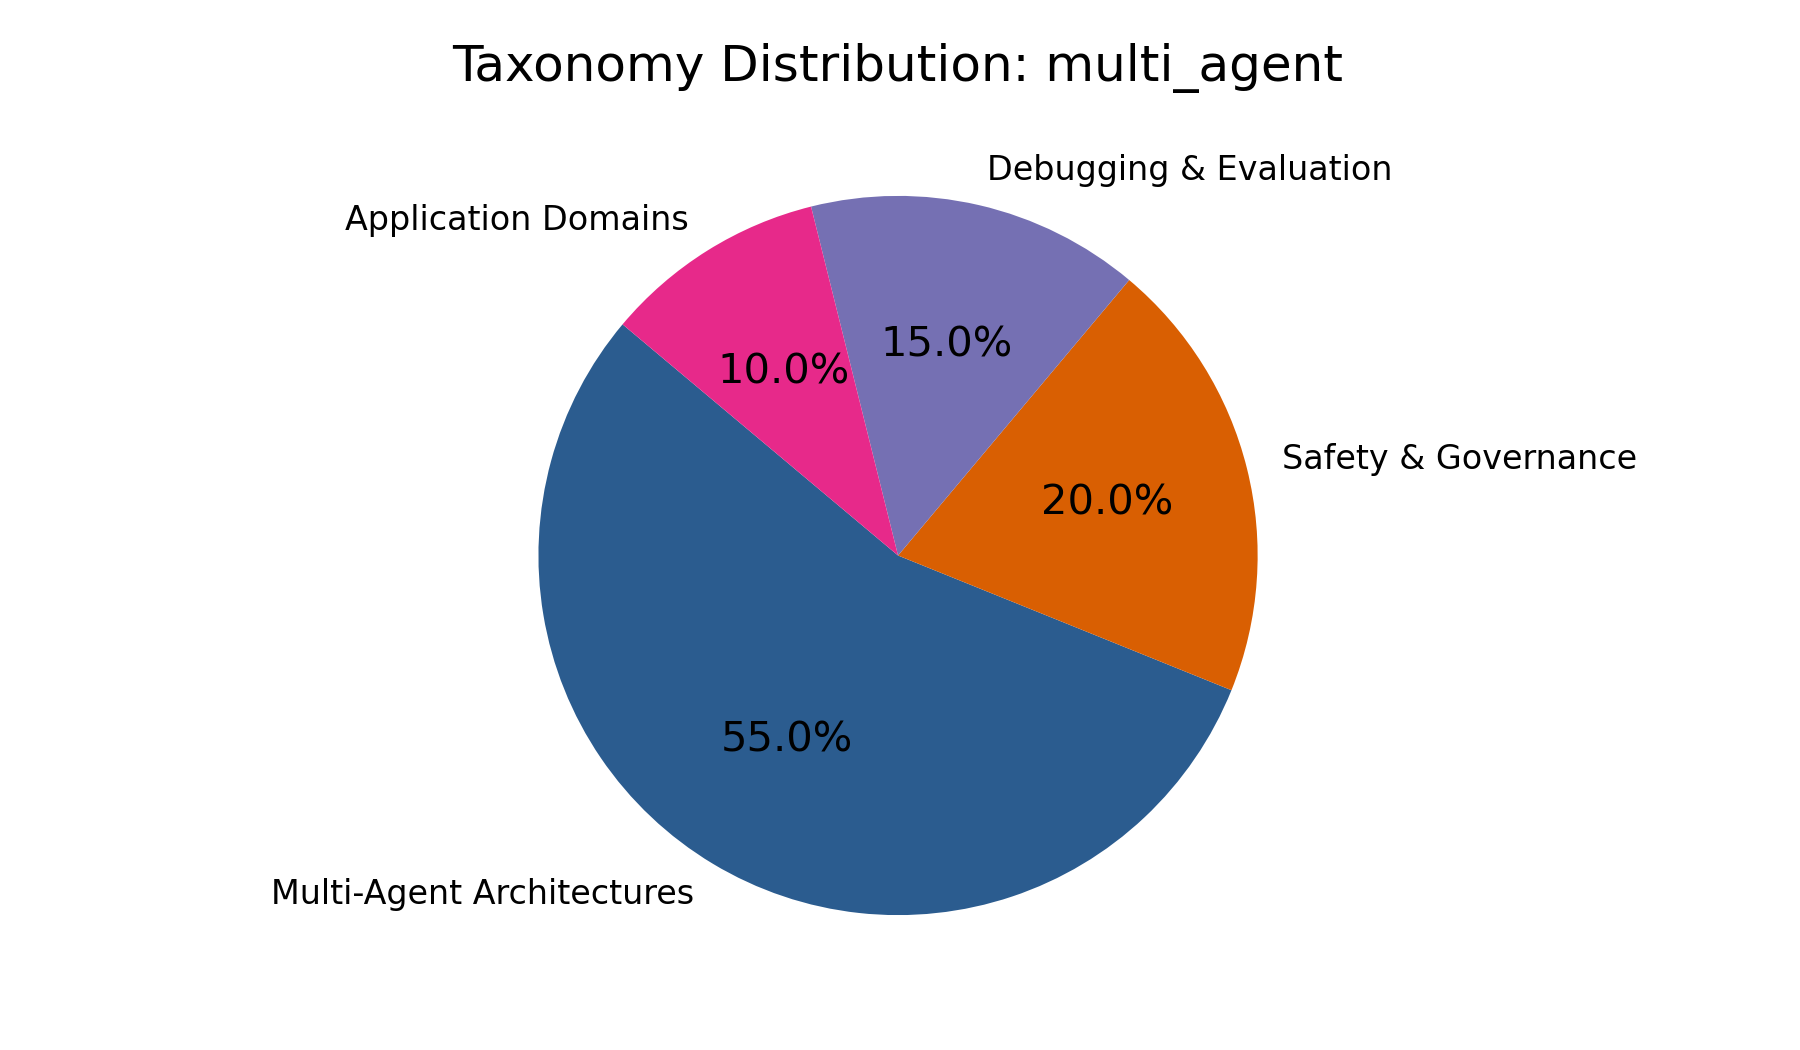
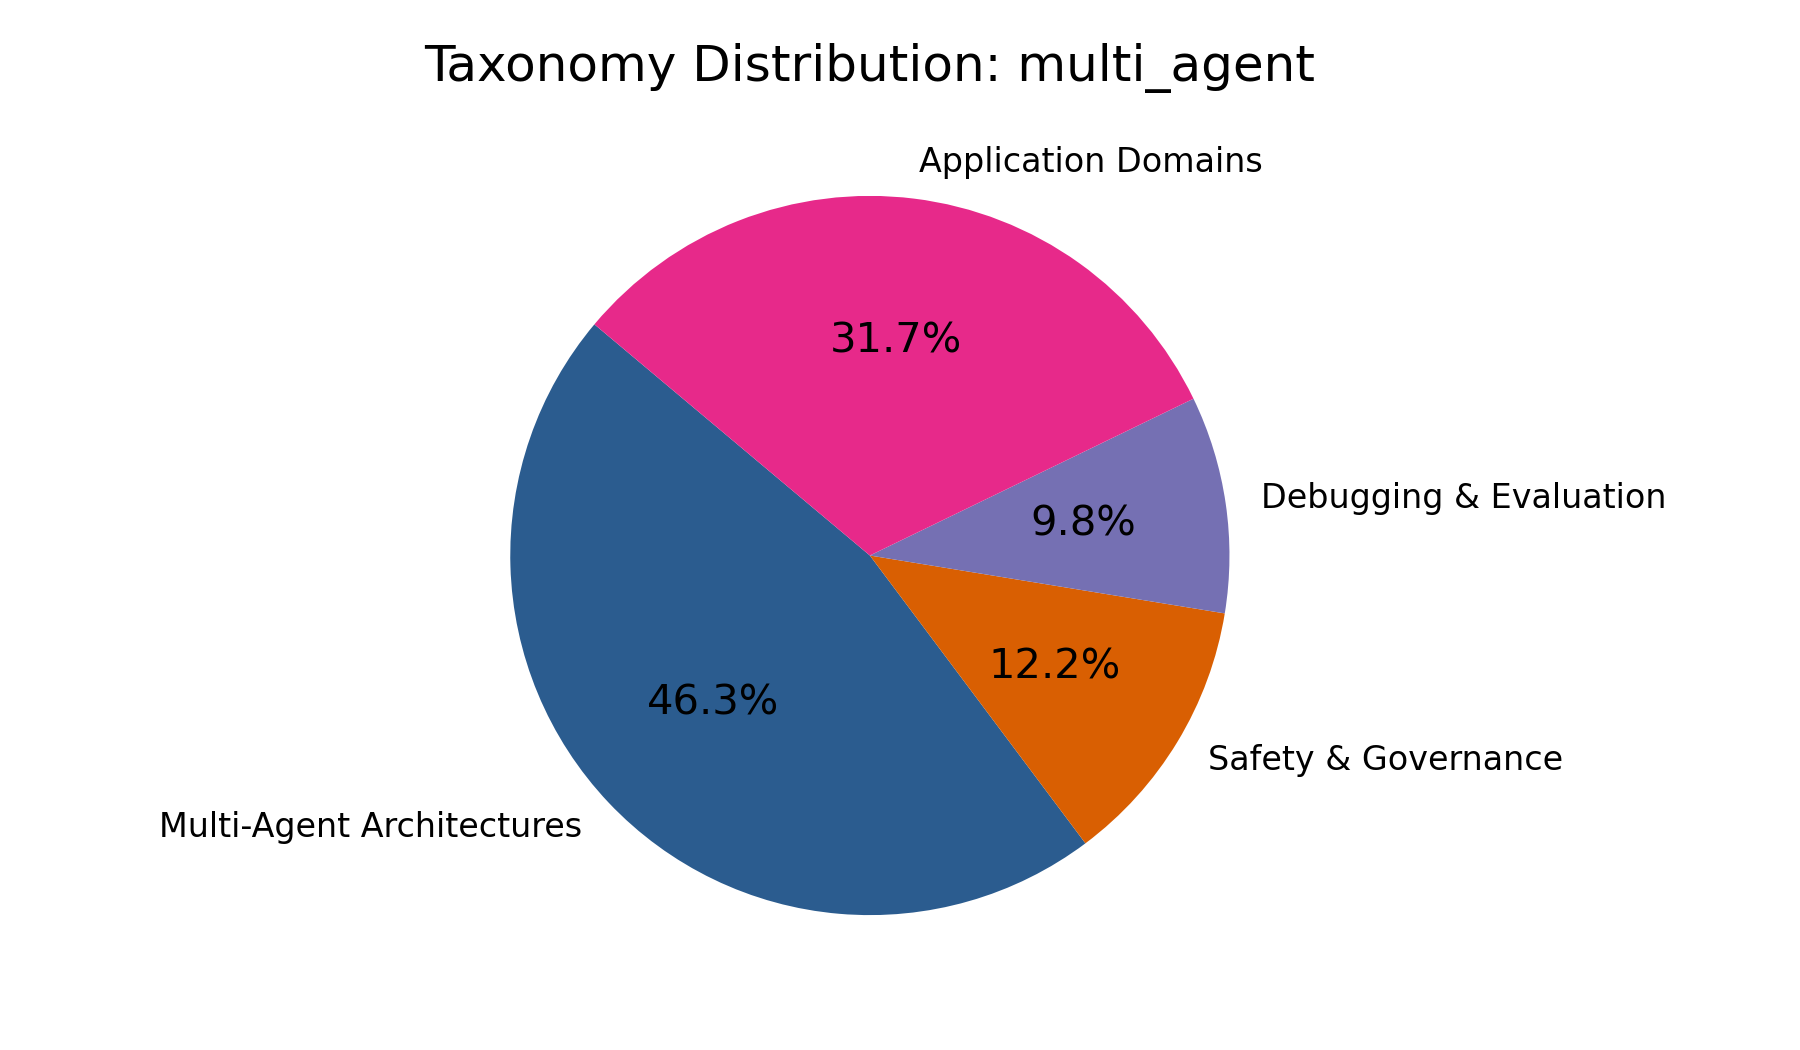
feat(multi_agent): integrated valid papers (LSS: 87.94)

diff --git a/surveys/multi_agent/generate_figures.py b/surveys/multi_agent/generate_figures.py
@@ -11,8 +11,8 @@ plt.rcParams.update({'font.size': 10, 'axes.labelsize': 11, 'axes.titlesize': 12
 
 SURVEY_TITLE = "multi_agent"
 # [AI AGENT ZONE] Edit only these dictionaries
-TIMELINE_DATA = {"2009": 1, "2014": 1, "2023": 1, "2024": 2, "2025": 8, "2026": 7}
-TAXONOMY_DATA = {"Multi-Agent Architectures": 11, "Safety & Governance": 4, "Debugging & Evaluation": 3, "Application Domains": 2}
+TIMELINE_DATA = {"2001": 2, "2002": 2, "2003": 8, "2004": 4, "2005": 1, "2006": 2, "2007": 2, "2009": 1, "2014": 1, "2023": 1, "2024": 2, "2025": 8, "2026": 7}
+TAXONOMY_DATA = {"Multi-Agent Architectures": 19, "Safety & Governance": 5, "Debugging & Evaluation": 4, "Application Domains": 13}
 
 def plot_publication_timeline():
     years, counts = list(TIMELINE_DATA.keys()), list(TIMELINE_DATA.values())

diff --git a/surveys/multi_agent/multi_agent.md b/surveys/multi_agent/multi_agent.md
@@ -16,6 +16,8 @@ Furthermore, multi-agent LLM architectures are proving effective for automated f
 
 Distributed planning approaches continue to evolve, with new dynamic models enabling agents to autonomously regenerate plans based on environmental changes and constraint satisfaction via genetic algorithms [^10.48550_arxiv.2403.00805]. In reinforcement learning contexts, coordinating multi-agent cooperation remains a focal point; models like DQN–MADDPG are being adapted to handle complex, shared environments and emergency scenarios more effectively than traditional baselines [^10.54097_hset.v39i.6720]. Furthermore, the evolution of communication protocols is critical; research into emergent communication demonstrates that combining direct and indirect communication methods in agent groups significantly enhances collective fitness and emergence compared to isolated or single-mode communication strategies [^https:__openalex.org_W567786164].
 
+Historical and foundational studies continue to inform modern MAS design. Early work on communication protocols established the necessity of robust inter-agent messaging, such as the RPC-based communication model which formalized agent functions and implementation steps for distributed systems [^https:__openalex.org_W2382811347]. Structural organization remains critical; research on macro-and-micro architectures for soccer game systems demonstrated how hybrid agent designs (deliberative, hybrid, reactive) can simplify structures while enhancing inference capabilities and real-time flexibility [^https:__openalex.org_W2347833166]. Coordination mechanisms have also been deeply explored, with studies defining sixteen distinct cooperation structures and designing corresponding communication primitives to facilitate multi-agent collaboration [^https:__openalex.org_W2350024539]. Furthermore, the emergence of social conventions as a coordination mechanism has been analyzed, outlining how cognitive capabilities influence the evolution of these conventions in dynamic environments [^https:__openalex.org_W2371517477]. Configuration and allocation of agents in heterogeneous distributed systems have been addressed through dynamic effective configuration algorithms that enable real-time host discovery and automatic agent launching [^https:__openalex.org_W2370879375]. In multi-robot contexts, hierarchical hybrid coordination architectures integrating planning and reactive control have proven effective for complex task execution in uncertain environments [^https:__openalex.org_W2372463173], while studies on soccer robot systems highlight the importance of combining centralized vision-based control with semi-autonomous agent reasoning [^https:__openalex.org_W2376921535]. Rule-based approaches also remain prominent, as seen in distributed-rule agile production scheduling frameworks that utilize hierarchical agent populations (Resource, Part, and Management Agents) to optimize manufacturing workflows [^https:__openalex.org_W2379856474].
+
 ## Safety, Trust, and Governance in Multi-Agent Systems
 
 As multi-agent systems become more autonomous and interconnected, ensuring their safety, trustworthiness, and proper governance has emerged as a critical research area. The concept of an Internet of Agents (IoA) introduces systemic safety risks that require co-designing safety with capability. Research in this domain provides a principled guide for engineering safe agentic systems by analyzing vulnerabilities at the single-agent, multi-agent, and interoperable ecosystem levels [^10.48550_arxiv.2512.00520].
@@ -26,6 +28,8 @@ On the governance front, formal specifications like the Agent Trust Fabric (ATF)
 
 Trust and reputation mechanisms are foundational for secure MAS interactions. The DISARM model addresses this by treating MASs as social networks and employing defeasible logic to draw reasonable conclusions from incomplete or conflicting information, offering a personalized, distributed reputation estimation without relying on centralized authorities [^10.48550_arxiv.1410.3334].
 
+Beyond modern governance layers, foundational security mechanisms for MAS have long focused on behavioral evaluation and intrusion detection. Distributed security systems have been developed to identify undesirable agents or intruders by autonomously evaluating peer behaviors and aggregating historical evaluation results to make distributed trust decisions [^10.4114_ia.v9i28.869].
+
 ## Debugging, Evaluation, and Error Attribution
 
 The complexity of multi-agent interactions makes debugging and error attribution particularly challenging. Traditional evaluation methods often struggle with complex reasoning errors and interdependencies. The ECHO algorithm addresses this by combining hierarchical context representation, objective analysis, and consensus voting to accurately pinpoint agent and step-level failures in interaction traces [^10.48550_arxiv.2510.04886].
@@ -34,8 +38,12 @@ In systems engineering, multi-agent frameworks are also being deployed for root-
 
 Evaluating agent contributions and influence is crucial for understanding complex workflows. The CAIR framework introduces a counterfactual-based influence ranker that assesses the impact of individual agents within agentic AI workflows, providing deeper insights into system dynamics and failure modes [^10.18653_v1_2025.emnlp-main.958].
 
+Distributed diagnostic capabilities are another cornerstone of robust MAS. Expert systems leveraging multi-agent architectures have been designed for distributed fault diagnosis, enabling autonomous subsystems to share new knowledge and collaboratively resolve boundary fault locations through interaction and consensus algorithms [^https:__openalex.org_W2353116861].
+
 ## Application Domains
 
 Multi-agent systems are increasingly being adapted to solve domain-specific challenges that require distributed processing and specialized agent roles. In academic administration, automated categorization and multi-agent processing pipelines have been implemented to streamline assignment grading in computer science and statistics departments. By clustering similar responses and generating precise feedback, these systems reduce educator workload while maintaining rigorous evaluation standards [^10.54254_2755-2721_2025.30694].
 
 Beyond technical infrastructure, multi-agent systems are being deployed to streamline domain-specific workflows. For instance, a multi-agent architecture combining LLMs with RAG has been implemented to enhance user story quality in agile development, clustering stories and integrating with project management tools to improve traceability and clarity [^https:__openalex.org_W7132881445].
+
+The versatility of multi-agent paradigms is evident across a wide spectrum of specialized application domains. In educational technology, multi-agent models have been constructed to power network adaptive testing systems, optimizing test delivery through specialized agent roles [^https:__openalex.org_W2391860361]. Industrial and resource management applications include multi-agent frameworks for switching-line resource support, which decompose resource management into cooperative agent tasks to enhance system efficiency [^https:__openalex.org_W2363361358]. Military and logistics command systems have also benefited, with multi-agent technologies applied to military oil allotment command to enable intelligent decision-making through fuzzy association models [^https:__openalex.org_W2357293591]. In infrastructure and energy, intelligent multi-agent schemes have been proposed for transmission line backup protection relaying [^https:__openalex.org_W2358911872], while cooperative voting strategies have been adapted for mine ventilation simulation to address spatio-temporal complexity [^https:__openalex.org_W2354515521]. Supply chain management (SCM) has seen extensive multi-agent adoption, from enterprise-level SCM models utilizing ScmAgent migration and search addressing [^https:__openalex.org_W2370391742] to integrated process enterprise systems focusing on material flow coordination [^https:__openalex.org_W2385031134]. Economic and financial modeling has also leveraged these systems, with multi-agent market models successfully replicating chaotic behaviors and price trends consistent with real stock markets [^https:__openalex.org_W2379441390]. Furthermore, multi-agent architectures have been deployed for cooperative remote diagnosis of drilling accidents, overcoming single-domain expert limitations by network-wide resource utilization [^https:__openalex.org_W2360759117], and for electron underwriting authentication systems using emulator-based multi-agent models [^https:__openalex.org_W2364380822]. Finally, urban traffic control has been transformed through distributed intelligent systems that incorporate learning mechanisms for adaptive, expert-like traffic management [^https:__openalex.org_W2359462034].
